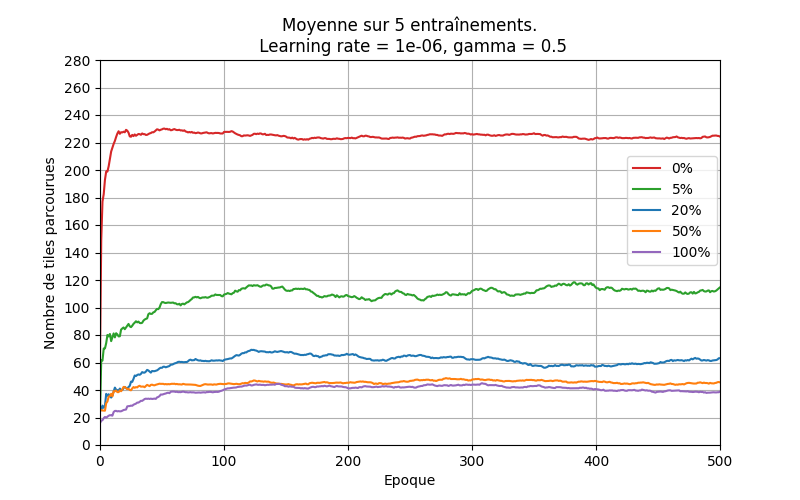
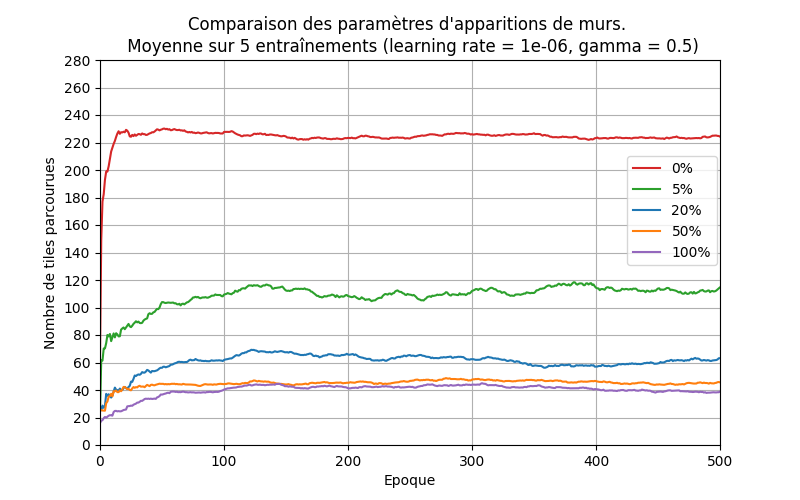
Better title because legend was not obvious

Changed region(s): [[0.1562, 0.03, 0.875, 0.12]]

diff --git a/RL/plot_results.py b/RL/plot_results.py
@@ -120,7 +120,7 @@ class Ploter():
         plt.plot(x, mean_over_files_lst[2], color="tab:blue", label="20%")
         plt.plot(x, mean_over_files_lst[3], color="tab:orange", label="50%")
         plt.plot(x, mean_over_files_lst[4], color="tab:purple", label="100%")
-        plt.title(f"Moyenne sur 5 entraînements.\n Learning rate = {self.lr}, gamma = {self.gamma}")
+        plt.title(f"Comparaison des paramètres d'apparitions de murs. \n Moyenne sur 5 entraînements (learning rate = {self.lr}, gamma = {self.gamma})")
         plt.xlabel("Epoque")
         plt.ylabel("Nombre de tiles parcourues")
         
